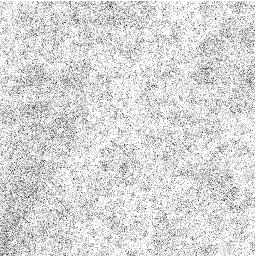
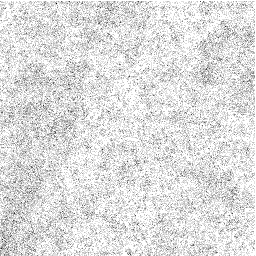
Calcul map densité végétation
affichage map densité végétation

diff --git a/Outerrain/Source/app.cpp b/Outerrain/Source/app.cpp
@@ -13,6 +13,7 @@ static GLuint draignageTexture;
 static GLuint wetnessTexture;
 static GLuint streampowerTexture;
 static GLuint accessibilityTexture;
+static GLuint vegetationDensityTexture;
 static GLuint m_time_query;
 
 /* ImGui Erosion */
@@ -123,8 +124,11 @@ int App::Render()
 	ImGui::Begin("Stream Power Map");
 	ImGui::Image(reinterpret_cast<ImTextureID>(streampowerTexture), ImVec2(150, 150));
 	ImGui::End();
-	ImGui::Begin("Accessibility Image");
+	ImGui::Begin("Accessibility Map");
 	ImGui::Image(reinterpret_cast<ImTextureID>(accessibilityTexture), ImVec2(150, 150));
+	ImGui::End();
+	ImGui::Begin("Vegetation Density Map");
+	ImGui::Image(reinterpret_cast<ImTextureID>(vegetationDensityTexture), ImVec2(150, 150));
 	ImGui::End();
 
 	// Erosion
@@ -204,6 +208,7 @@ int App::Update(const float time, const float deltaTime)
 		std::vector<GameObject*> trees = vegTerrain.GetTreeObjects();
 		for (int i = 0; i < trees.size(); i++)
 			scene.AddChild(trees[i]);
+		CalculateAllMaps();
 	}
 
 	// Update game objects
@@ -318,9 +323,11 @@ void App::CalculateAllMaps()
 	vegTerrain.StreamPowerField().WriteImageGrayscale("Data/streamPower.png");
 	vegTerrain.DrainageSqrtField().WriteImageGrayscale("Data/drainageSqrt.png");
 	vegTerrain.AccessibilityField().WriteImageGrayscale("Data/accessibility.png");
+	vegTerrain.VegetationDensityField().WriteImageGrayscale("Data/vegetationDensity.png");
 	slopeTexture = ReadTexture(0, "Data/slope.png", GL_RGB);
 	draignageTexture = ReadTexture(0, "Data/drainageSqrt.png", GL_RGB);
 	wetnessTexture = ReadTexture(0, "Data/wetness.png", GL_RGB);
 	streampowerTexture = ReadTexture(0, "Data/streamPower.png", GL_RGB);
 	accessibilityTexture = ReadTexture(0, "Data/accessibility.png", GL_RGB);
+	vegetationDensityTexture = ReadTexture(0, "Data/vegetationDensity.png", GL_RGB);
 }

diff --git a/Outerrain/Source/terrain.cpp b/Outerrain/Source/terrain.cpp
@@ -452,13 +452,18 @@ VegetationTerrain::VegetationTerrain(int nx, int ny, Vector2 bottomLeft, Vector2
 void VegetationTerrain::ComputeVegetationDensities()
 {
 	ScalarField2D slopeField = SlopeField();
+	ScalarField2D wetnessField = WetnessField();
+	ScalarField2D streampowerField = StreamPowerField();
 	VegetationObject vegObj;
 	for (int i = 0; i < ny; i++)
 	{
 		for (int j = 0; j < nx; j++)
 		{
+			float height = heightField.Get(i, j);
 			float slope = slopeField.Get(i, j);
-			vegetationDensityField.Set(i, j, vegObj.SlopeDensityFactor(slope));
+			float wetness = wetnessField.Get(i, j);
+			float streampower = streampowerField.Get(i, j);
+			vegetationDensityField.Set(i, j, vegObj.ComputeDensityFactor(height, slope, wetness, streampower));
 		}
 	}
 }
@@ -494,7 +499,7 @@ std::vector<GameObject*> VegetationTerrain::GetTreeObjects() const
 					if (p < density)
 					{
 						GameObject* vegObj = veg.GetGameObject();
-						Vector3 pos = Vector3(point.x, Height(point), point.y);
+						Vector3 pos = Vector3(point.x, Height(point) + vegObj->GetScale().y / 2.0f, point.y);
 						vegObj->SetPosition(pos);
 						vegObjects.push_back(vegObj);
 						treeCount++;
@@ -530,4 +535,9 @@ std::vector<Vector2> VegetationTerrain::GetRandomDistribution(float objRadius, f
 			res.push_back(point);
 	}
 	return res;
+}
+
+ScalarField2D VegetationTerrain::VegetationDensityField() const
+{
+	return vegetationDensityField;
 }

diff --git a/Outerrain/Source/vegetationObject.cpp b/Outerrain/Source/vegetationObject.cpp
@@ -1,5 +1,6 @@
 #include "vegetationObject.h"
 #include "gameobject.h"
+#include <algorithm>
 #include <math.h>
 
 VegetationObject::VegetationObject()
@@ -25,24 +26,24 @@ GameObject* VegetationObject::GetGameObject()
 /* Density functions */
 float VegetationObject::HeightDensityFactor(float height)
 {
-	return cos(height * 1.6f);
+	return cos(height * 1.6f) * 0.5f + 0.5f;
 }
 
 float VegetationObject::SlopeDensityFactor(float slope)
 {
-	return 0.05f;
-}
-
-float VegetationObject::StreamPowerDensityFactor(float streamPower)
-{
-	return cos(streamPower * 1.6f);
+	return cos(slope * 0.05f) * 0.5f + 0.5f;
 }
 
 float VegetationObject::WetnessDensityFactor(float wetness)
 {
-	return cos(wetness * 1.6f);
+	return cos(wetness * 1.6f) * 0.5f + 0.5f;
 }
 
+
+float VegetationObject::StreamPowerDensityFactor(float streamPower)
+{
+	return cos(streamPower * 1.6f) * 0.5f + 0.5f;
+}
 void VegetationObject::SetRadius(float r)
 {
 	radius = r;
@@ -51,4 +52,11 @@ void VegetationObject::SetRadius(float r)
 float VegetationObject::GetRadius()
 {
 	return radius;
+}
+
+float VegetationObject::ComputeDensityFactor(float height, float slope, float wetness, float streampower)
+{
+	float min1 = std::min(HeightDensityFactor(height), SlopeDensityFactor(slope));
+	float min2 = std::min(WetnessDensityFactor(wetness), StreamPowerDensityFactor(streampower));
+	return std::min(min1, min2);
 }

diff --git a/Outerrain/Include/vegetationObject.h b/Outerrain/Include/vegetationObject.h
@@ -20,6 +20,8 @@ public:
 	float WetnessDensityFactor(float);
 	float StreamPowerDensityFactor(float);
 
+	float ComputeDensityFactor(float height, float slope, float wetness, float streampower);
+
 	GameObject* GetGameObject();
 
 	void SetRadius(float r);

diff --git a/Outerrain/Include/terrain.h b/Outerrain/Include/terrain.h
@@ -92,6 +92,8 @@ public:
 	VegetationTerrain() { }
 	VegetationTerrain(int, int, Vector2, Vector2);
 
+	ScalarField2D VegetationDensityField() const;
+
 	void ComputeVegetationDensities();
 
 	std::vector<GameObject*> GetTreeObjects() const;
